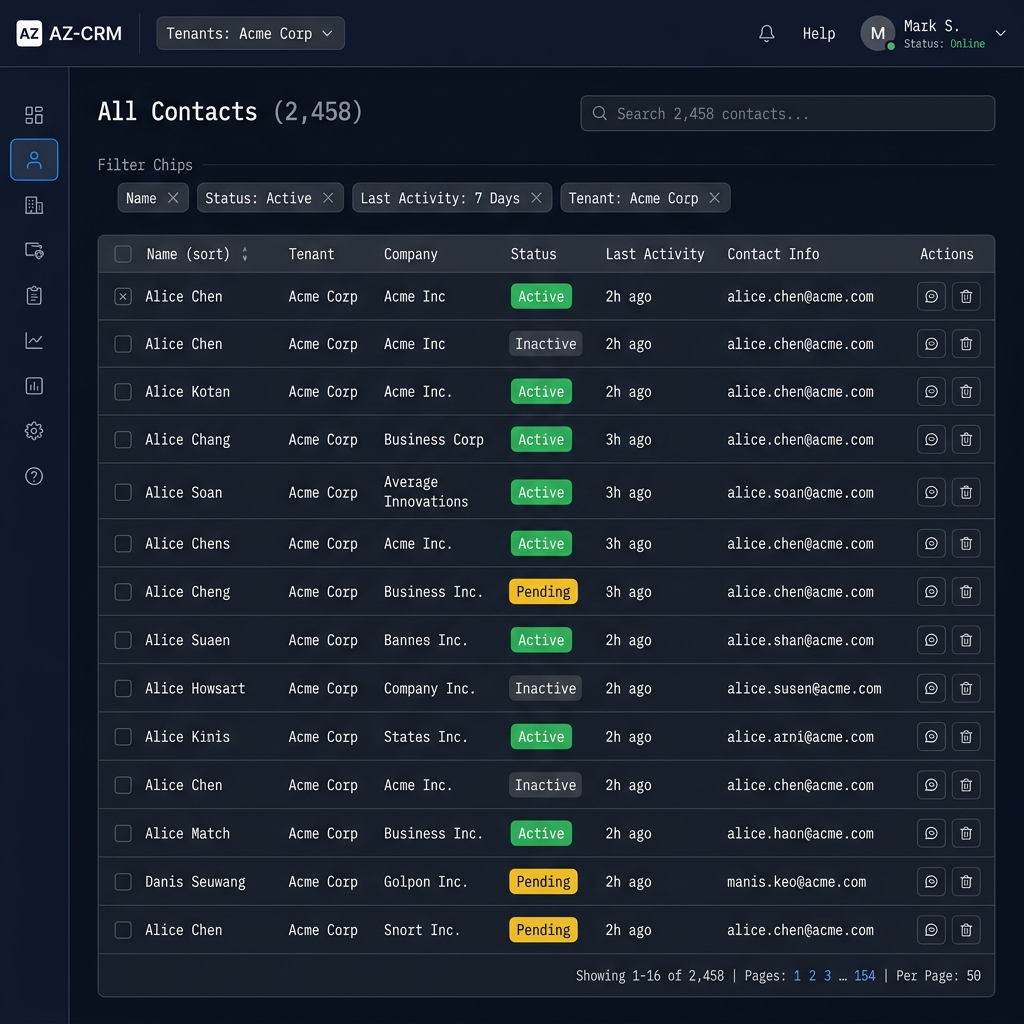
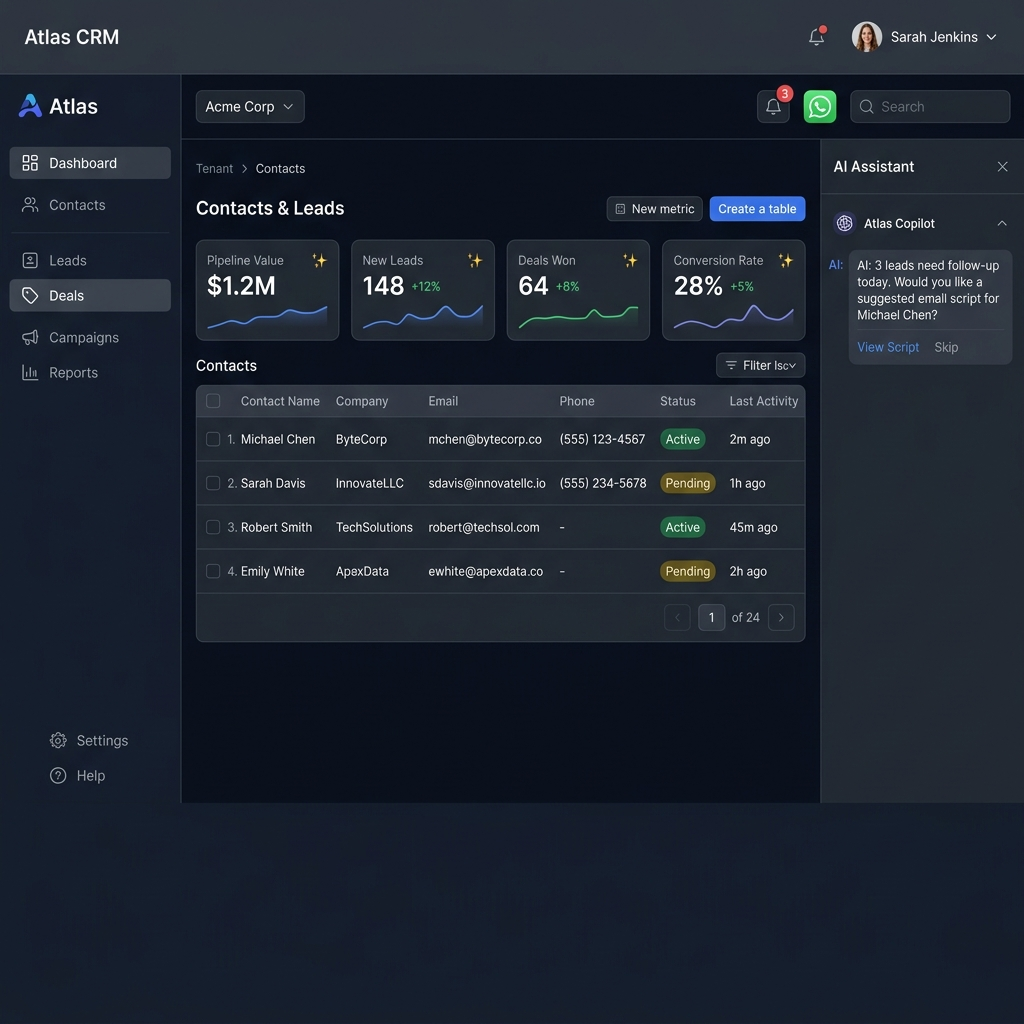
updated css

diff --git a/src/components/Work.jsx b/src/components/Work.jsx
@@ -3,31 +3,46 @@ import './Work.css';
 
 const PROJECTS = [
   {
-    id: 'PRJ/01',
+    id:   'PRJ/01',
     year: '2024',
-    name: 'crm_az',
-    descriptor: 'Multi-tenant CRM · Azure · FastAPI · React',
-    tech: ['Azure', 'FastAPI', 'React', 'PostgreSQL', 'Docker', 'Celery'],
+    name: 'CRM Platform',
+    short: 'Multi-tenant SaaS · AI Automation · WhatsApp',
+    tech: ['Azure', 'FastAPI', 'React', 'PostgreSQL', 'Docker', 'Celery', 'WhatsApp API', 'AI/ML'],
     image: '/images/project-crm.png',
-    href: 'https://github.com/priyanshu-kumar',
+    href:  'https://github.com/priyanshu-kumar',
+    role:  'Lead Developer & Cloud Architect',
+    detail: [
+      'Enterprise-grade multi-tenant CRM built on Azure, serving multiple organisations from a single deployment with complete data isolation via row-level RBAC.',
+      'Integrated AI assistant that auto-suggests follow-up actions, drafts outreach scripts, and flags at-risk leads. WhatsApp Business API enables two-way messaging directly within the contact timeline.',
+    ],
   },
   {
-    id: 'PRJ/02',
+    id:   'PRJ/02',
     year: '2024',
     name: 'Vrihi',
-    descriptor: 'AI Video Generator · Python · Manim · FFmpeg',
-    tech: ['Python', 'Manim', 'FFmpeg', 'AI/ML', 'CLI'],
+    short: 'AI Video Generator · Python · Manim · FFmpeg',
+    tech: ['Python', 'Manim', 'FFmpeg', 'Stable Diffusion', 'Whisper', 'CLI', 'AI/ML'],
     image: '/images/project-vrihi.png',
-    href: 'https://github.com/priyanshu-kumar',
+    href:  'https://github.com/priyanshu-kumar',
+    role:  'AI Pipeline Engineer',
+    detail: [
+      'End-to-end AI video generation pipeline that converts a topic or script into a fully rendered, narrated educational video — no manual editing required.',
+      'Uses Manim for mathematical animations, Stable Diffusion for scene visuals, and Whisper for TTS narration. FFmpeg encodes the final output at broadcast quality.',
+    ],
   },
   {
-    id: 'PRJ/03',
+    id:   'PRJ/03',
     year: '2023',
     name: 'CloudStack Lab',
-    descriptor: 'KVM Homelab · Apache CloudStack · Ubuntu',
-    tech: ['KVM', 'Apache CloudStack', 'Ubuntu', 'Networking', 'NFS'],
+    short: 'Private Cloud · KVM · Apache CloudStack · Ubuntu',
+    tech: ['KVM', 'Apache CloudStack', 'Ubuntu', 'NFS', 'Networking', 'Terraform'],
     image: '/images/project-cloudstack.png',
-    href: 'https://github.com/priyanshu-kumar',
+    href:  'https://github.com/priyanshu-kumar',
+    role:  'Infrastructure Architect',
+    detail: [
+      'Self-hosted private cloud built from bare metal — two KVM hypervisor nodes managed by Apache CloudStack, with NFS shared storage and full VLAN network segmentation.',
+      'Provisioned infrastructure-as-code via Terraform, supporting live VM migration, snapshot management, and isolated tenant networking — a full AWS-like stack, on-premises.',
+    ],
   },
 ];
 
@@ -55,11 +70,11 @@ export default function Work() {
                 className="work-row"
                 onClick={() => setActive(active === i ? null : i)}
                 aria-expanded={active === i}
-                aria-label={`${p.name} — ${p.descriptor}`}
+                aria-label={`${p.name} — ${p.short}`}
               >
                 <span className="work-row__id section-eyebrow">{p.id}</span>
                 <span className="work-row__name">{p.name}</span>
-                <span className="work-row__desc">{p.descriptor}</span>
+                <span className="work-row__desc">{p.short}</span>
                 <span className="work-row__year">{p.year}</span>
                 <span className="work-row__tog" aria-hidden="true">
                   {active === i ? '−' : '+'}
@@ -69,7 +84,7 @@ export default function Work() {
               {/* ── Panel ── */}
               <div
                 className="work-panel"
-                style={{ maxHeight: active === i ? '400px' : '0' }}
+                style={{ maxHeight: active === i ? '520px' : '0' }}
                 aria-hidden={active !== i}
               >
                 <div className="work-panel__inner">
@@ -84,9 +99,14 @@ export default function Work() {
                   </div>
                   {/* Right — details */}
                   <div className="work-panel__details">
-                    <span className="work-panel__id section-eyebrow">{p.id}</span>
+                    <span className="work-panel__id section-eyebrow">{p.id} — {p.year}</span>
                     <h3 className="work-panel__title">{p.name}</h3>
-                    <p className="work-panel__desc">{p.descriptor}</p>
+                    <p className="work-panel__role">
+                      <span className="work-panel__role-label">Role:</span> {p.role}
+                    </p>
+                    {p.detail.map((d, di) => (
+                      <p key={di} className="work-panel__desc">{d}</p>
+                    ))}
                     <div className="work-panel__tech">
                       {p.tech.map((t) => (
                         <span key={t} className="work-panel__tag">{t}</span>

diff --git a/src/components/Work.css b/src/components/Work.css
@@ -125,7 +125,7 @@
 }
 
 .work-panel__img-wrap {
-  height: 280px;
+  height: 340px;
   overflow: hidden;
   position: relative;
 }
@@ -169,10 +169,24 @@
 
 .work-panel__desc {
   font-family: var(--font-mono);
-  font-size: 0.75rem;
+  font-size: 0.72rem;
   color: var(--cream);
   opacity: 0.42;
-  line-height: 1.7;
+  line-height: 1.75;
+  margin-bottom: 0.25rem;
+}
+
+.work-panel__role {
+  font-family: var(--font-mono);
+  font-size: 0.68rem;
+  color: var(--cream);
+  opacity: 0.55;
+  margin-bottom: 0.25rem;
+}
+
+.work-panel__role-label {
+  color: var(--green);
+  opacity: 1;
 }
 
 .work-panel__tech {
@@ -225,5 +239,5 @@
     grid-template-columns: 1fr;
   }
 
-  .work-panel__img-wrap { height: 220px; }
+  .work-panel__img-wrap { height: 200px; }
 }
